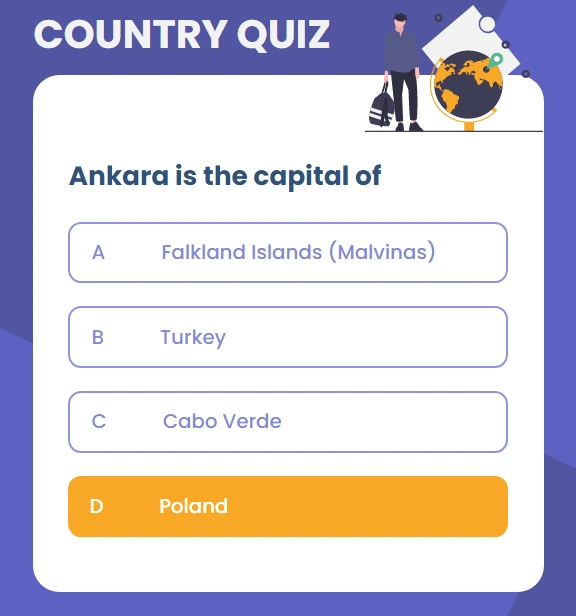
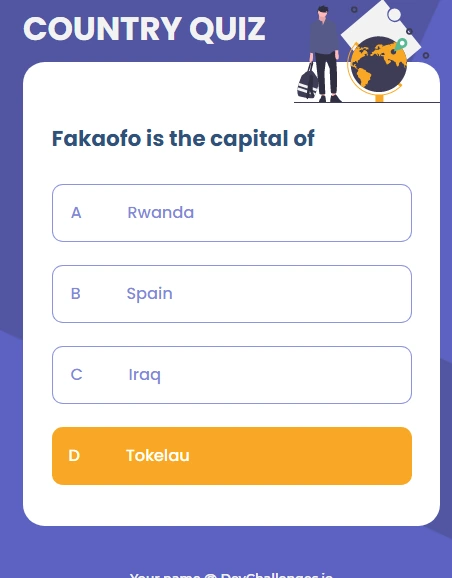
Modified the readme and the screenshots of the app

diff --git a/dist/country-quiz.e31bb0bc.js b/dist/country-quiz.e31bb0bc.js
@@ -30214,7 +30214,7 @@ var parent = module.bundle.parent;
 if ((!parent || !parent.isParcelRequire) && typeof WebSocket !== 'undefined') {
   var hostname = "" || location.hostname;
   var protocol = location.protocol === 'https:' ? 'wss' : 'ws';
-  var ws = new WebSocket(protocol + '://' + hostname + ':' + "49231" + '/');
+  var ws = new WebSocket(protocol + '://' + hostname + ':' + "51902" + '/');
 
   ws.onmessage = function (event) {
     checkedAssets = {};

diff --git a/dist/style.e308ff8e.js b/dist/style.e308ff8e.js
@@ -217,7 +217,7 @@ var parent = module.bundle.parent;
 if ((!parent || !parent.isParcelRequire) && typeof WebSocket !== 'undefined') {
   var hostname = "" || location.hostname;
   var protocol = location.protocol === 'https:' ? 'wss' : 'ws';
-  var ws = new WebSocket(protocol + '://' + hostname + ':' + "49231" + '/');
+  var ws = new WebSocket(protocol + '://' + hostname + ':' + "51902" + '/');
 
   ws.onmessage = function (event) {
     checkedAssets = {};

diff --git a/dist/style.e308ff8e.css b/dist/style.e308ff8e.css
@@ -67,14 +67,11 @@ body {
 .first_question {
     min-height: 515px;
     width: 464px;
-    /* padding-bottom: 32px; */
-    /* padding-bottom: 68px; */
 }
 
 .second_question {
     min-height: 629px;
     width: 464px;
-    /* padding-bottom: 64px; */
 }
 
 .question-image {

diff --git a/style.css b/style.css
@@ -67,14 +67,11 @@ body {
 .first_question {
     min-height: 515px;
     width: 464px;
-    /* padding-bottom: 32px; */
-    /* padding-bottom: 68px; */
 }
 
 .second_question {
     min-height: 629px;
     width: 464px;
-    /* padding-bottom: 64px; */
 }
 
 .question-image {

diff --git a/README.md b/README.md
@@ -12,7 +12,7 @@
   </h3>
 </div>
 
-In this project our challenge was to create a country quiz app using an API, and use React to handle the frontend.
+In this project, I created a little quiz which contains two questions about a country. This is called a country quiz app using an API, and using React to handle the frontend.
 
 ## Overview
 
@@ -20,6 +20,10 @@ In this project our challenge was to create a country quiz app using an API, and
 ![screenshot](./assets/wrong.webp)
 ![screenshot](./assets/result.webp)
 ![screenshot](./assets/page.webp)
+
+## Design
+
+You can see the the figma design [here](https://www.figma.com/file/Gw0ZNBbYN8asqFlZWy3jG1)
 
 - My experience
 
@@ -32,13 +36,6 @@ I had quite lots of experience while doing this project:
 1. Check if the answer is correct or not and changing their background.
 
 1. Showing the score in the result page.
-
--   What have you learned/improved?
-
-1. I have learned how can I display questions randomly and the answers by fetchin from the `API`.
-
-1. When the users got the answer wrong stop the quiz and ask them to try again and showing thier score in the second page.
-
 
 ### Built With
 
@@ -60,7 +57,7 @@ These are the user stories that I had to fulfilled:
 
 <!-- Example: -->
 
-To clone and run this application, you'll need [Git](https://git-scm.com) and [Node.js](https://nodejs.org/en/download/) (which comes with [npm](http://npmjs.com)) installed on your computer. From your command line:
+To clone and run this application, you'll need [Git](https://git-scm.com), [Node.js](https://nodejs.org/en/download/) (which comes with [npm](http://npmjs.com)) and [parcel bundler](https://parceljs.org/getting_started.html) installed on your computer. From your command line:
 
 ```bash
 # Clone this repository
